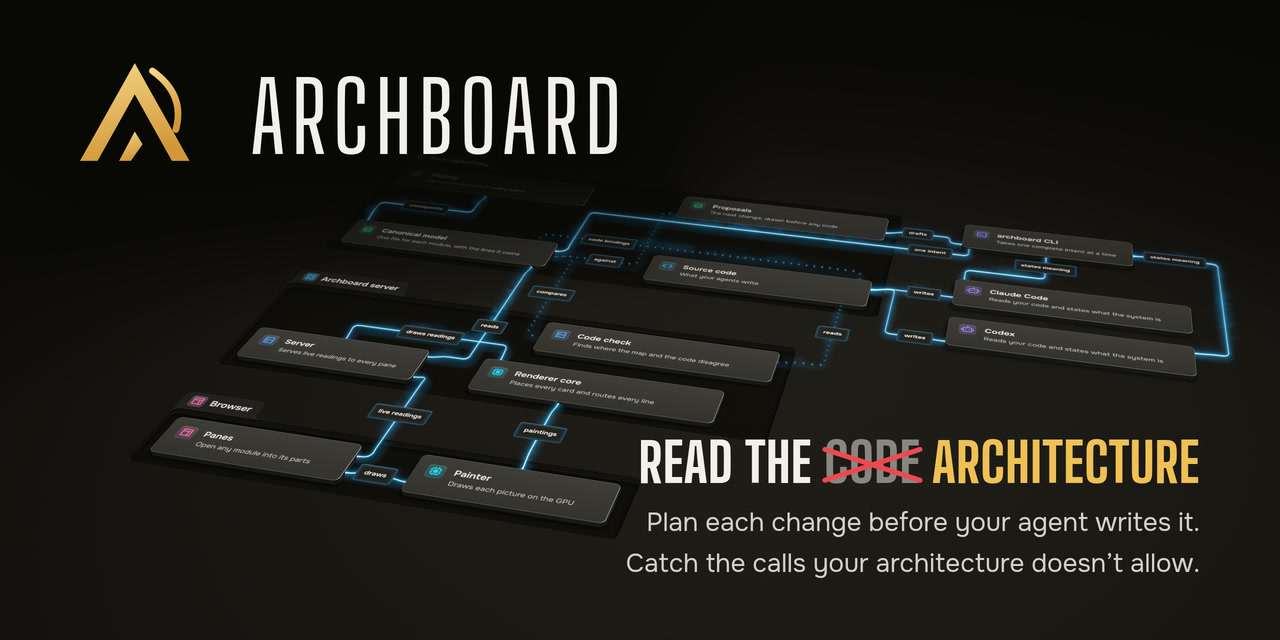
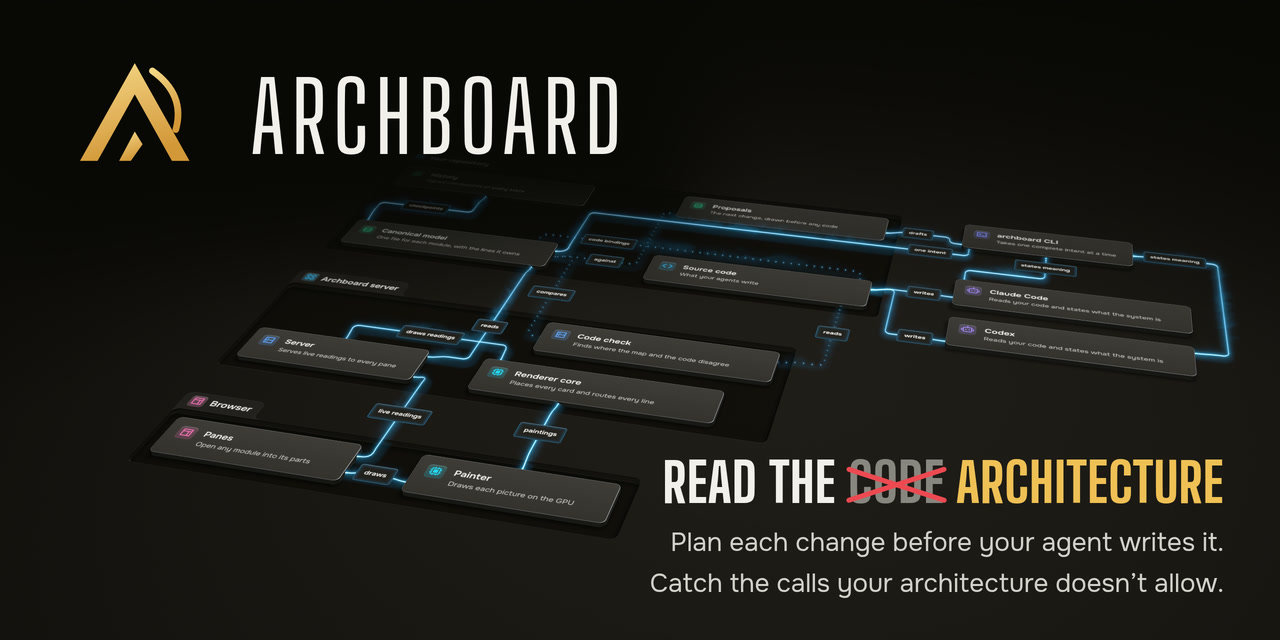
feat(readme): move the social card's words clear of the table
The headline and the lead stand 56px from the card's right edge and 36px from its foot, so the headline keeps clear of the Painter card.

Refs: TASK-625

Changed region(s): [[0.5, 0.6875, 0.9688, 0.9375]]

diff --git a/scripts/readme-assets/banner.ts b/scripts/readme-assets/banner.ts
@@ -132,8 +132,8 @@ const SOCIAL: Layout = {
 			text: "Plan each change before your agent writes it.\nCatch the calls your architecture doesn’t allow.",
 			size: 26,
 		},
-		right: 80,
-		bottom: 56,
+		right: 56,
+		bottom: 36,
 	},
 	fade: { left: null, foot: null },
 	above: true,
